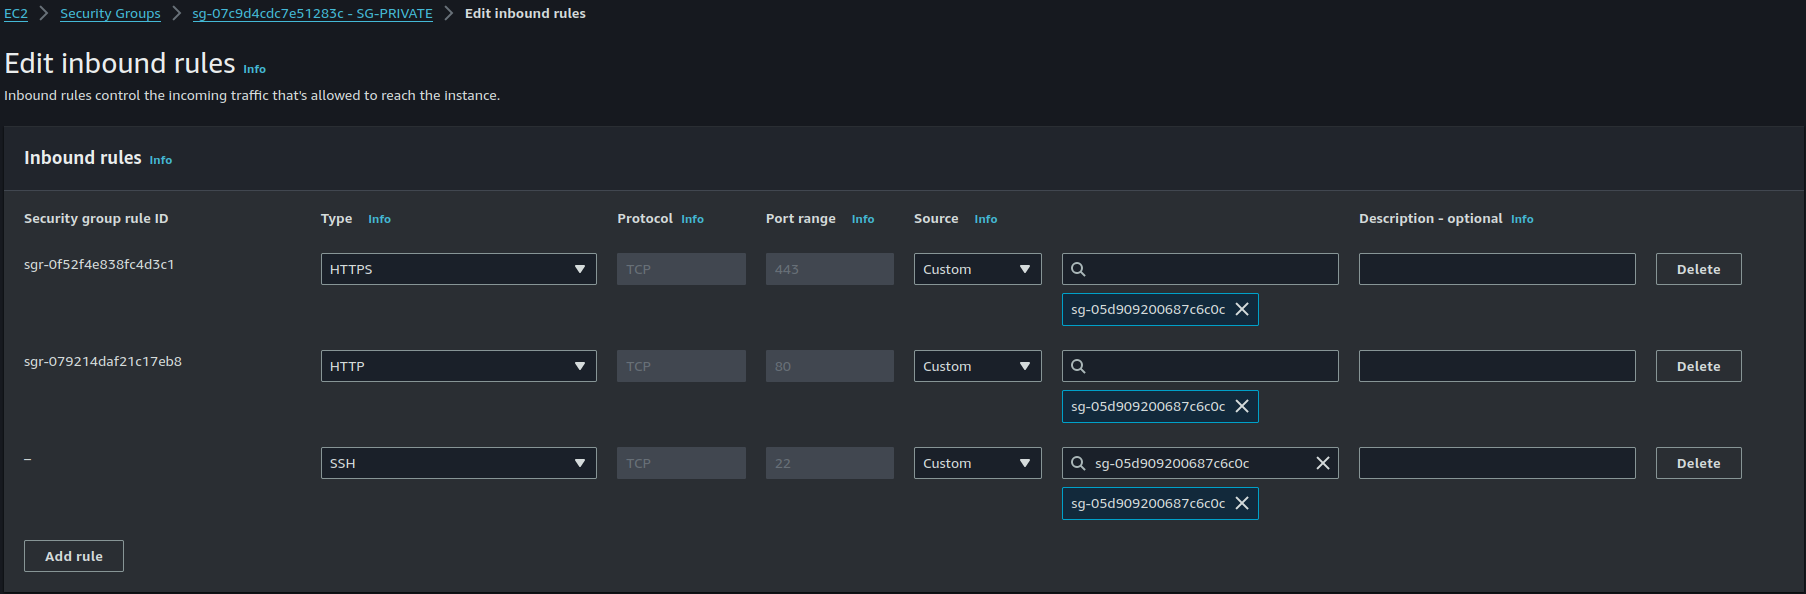
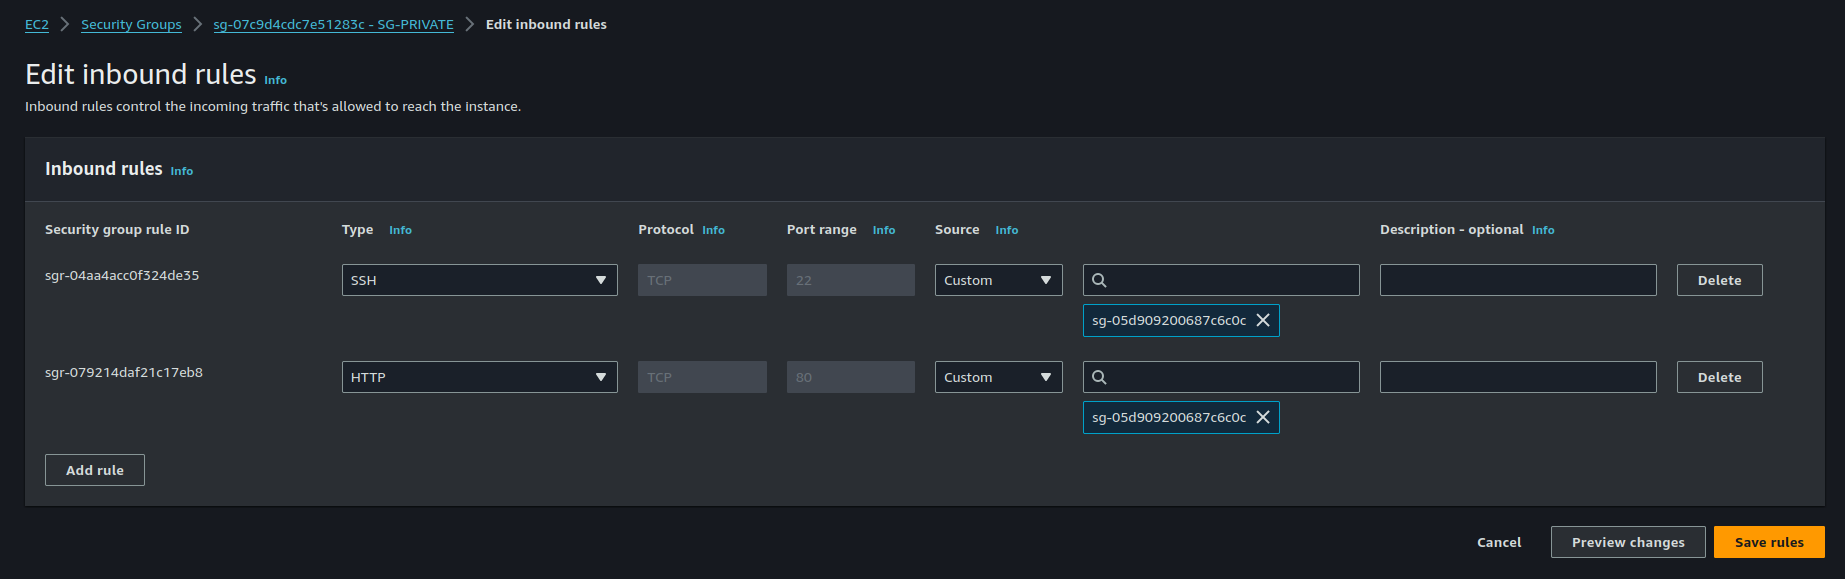
Update README.md - Adicionado Endpoint e trocado ALB para CLB

diff --git a/Atividade 02/README.md b/Atividade 02/README.md
@@ -51,7 +51,6 @@ Pontos de atenção:
 | Tipo            | Protocolo | Porta | Origem    |
 |-----------------|-----------|-------|-----------|
 | HTTP            | TCP       | 80    | SG-PUBLIC |
-| HTTPS           | TCP       | 443   | SG-PUBLIC |
 | SSH             | TCP       | 22    | SG-PUBLIC |
 
 [SG-EFS](./Prints/Security%20Groups/SG-EFS.png) - para conexão do NFS
@@ -72,7 +71,6 @@ Pontos de atenção:
 
 <img src="./Prints/EFS/EFS.png" width=60%>
 
-
 ## 4 - Criar o Relational Database Service
 
 - Neste passo, vamos criar o banco de dados para o container de aplicação RDS - Mysql.
@@ -85,7 +83,6 @@ Pontos de atenção:
 - Criar um nome inicial do Database.
 
 <img src="./Prints/RDS/RDS.png" width=60%>
-
 
 ## 5 - Criar o Template de Instâncias
 
@@ -139,33 +136,29 @@ Pontos de atenção:
 
 <img src="./Prints/Template/Template.png" width=60%>
 
-## 6 - Criar o Target Group
-
-- O Target Group serve para dizer ao Load Balancer quais Instâncias ele vai conectar.
-- Neste passo, para criar o TG, vamos em EC2 -> Load Balancing -> Target Groups -> Create target froup
-- Selecionar o tipo Instances, protocolo HTTP, selecionar a VPC criada.
-- Como o auto scaling ainda não foi criado, não há instâncias para selecionar. Vamos deixar assim por enquanto.
-
-<img src="./Prints/TargetGroup/TargetGroup.png" width=60%>
-
-## 7 - Criar o Load Balancer
+## 6 - Criar o Load Balancer
 
 - Neste passo vamos criar o LB.
 - Para isso vamos em EC2 -> Load Balancing -> Load Balancers -> Create load balancer.
-- Foi sugerido usar o Classic Load Balancer, mas como este não pode rotear para TG's irei selecionar o [Application Load Balancer](./Prints/Load%20Balancer/LB1.png), achei melhor até pela descrição de prover roteamento e visibilidade de arquitetura de aplicações incluindo microserviços e contêineres.
-
-    `"Note: Classic Load Balancers can't route to target groups."`
-
-    `"Application Load Balancers provide advanced routing and visibility features targeted at application architectures, including microservices and containers."`
-
+- Foi sugerido usar o Classic Load Balancer.
 - Em basic information seleciona o scheme Internet-facing
 - Selecione A VPC criada anteriormente
 - Em Mappings marque as duas Az's e selecione as duas Subnets Públicas
-- Em Listeners e Roteamento, selecione como grupo de destino o target group criado anteriormente.
 - Selecione o SG-PUBLIC para acesso à internet
-- Em Listeners and routing selecione o Target Group criado.
+- Em Listeners e Routing, vou colocar as portas http:80 e tcp:22
+- Em Health checks, vou selecionar tcp:80
 
-<img src="./Prints/Load Balancer/LB2.png" width=60%>
+<img src="./Prints/Load Balancer/LB.png" width=60%>
+
+## 7 - Criar o EndPoint
+- Este Endpoint serve de túnel da internet para às instâncias via SSH que não têm IP público.
+- Neste passo, para criá-lo vamos em VPC -> Endpoints -> Create endpoint
+- Em Service Category selecionar EC2 Instance Connect Endpoint
+- Em VPC, selecionar a anterior criada
+- Em Security Group selecionar a SG-PUBLIC
+- Em subnet, selecionar a private-1a
+
+<img src="./Prints/EndPoint/EP.png" width=60%>
 
 ## 8 - Criar o Auto Scaling
 
@@ -173,9 +166,10 @@ Pontos de atenção:
 - Ele aumenta ou diminui as instâncias de acordo com a necessidade, impedindo que sua aplicação fique fora do ar por falta de recursos e evita gastos desnecessários.
 - Neste passo, para criar o ASG iremos em EC2 -> Auto Scaling -> Auto Scaling Groups e Create Auto Scaling Groups.
 - Selecione o Template criado anteriormente, a VPC e as 2 Subnets Privadas.
-- Attach to an existing load balancer - selecionar o target group.
+- Attach to an existing load balancer - Choose from Classic Load Balancers, escolher o load Balancer criado
+- Health Check é recomendado ligar o ELB health checks
 - Para o group Size vou colocar como Desire capacity = 2, Min = 2 e Max = 4.
-- Vou ativar o automatic scaling para 80% de utilização da CPU.
+- Em target tracking, vou ativar o automatic scaling para 80% de utilização da CPU.
 
 <img src="./Prints/Auto Scaling/ASG.png" width=60%>
 
